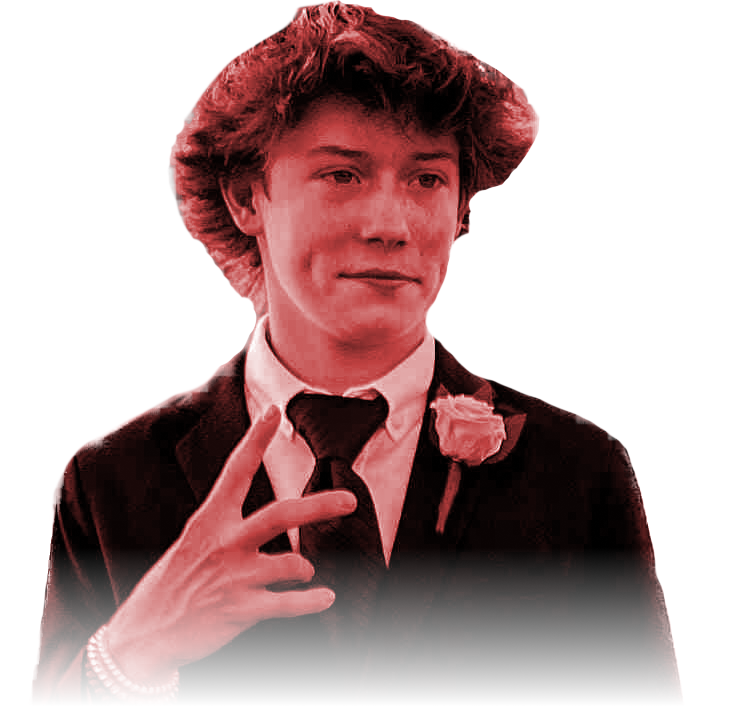
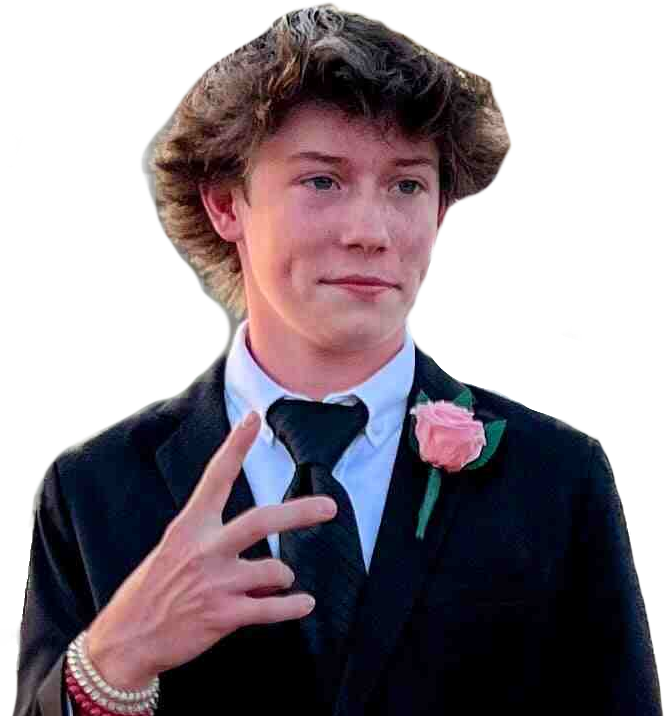
final hero

diff --git a/css/home.css b/css/home.css
@@ -72,75 +72,10 @@
 
 }
 
-/* Hero Section */
-
-.hero {
-    height: 100vh;
-    width: 100%;
-    display: flex;
-    flex-direction: column;
-    align-items: center;
-    position: relative;
-    z-index: 0;
-    overflow-y: hidden;
-    overflow-x: hidden;
-}
-
-.hero img {
-    position: absolute;
-    top: 0;
-    transform: translate(-50%, -14%);
-    left: 50%;
-    width: 100%;
-    min-width: 1000px;
-    overflow-x: hidden;
-}
-
-.hero img:nth-child(1) {
-    filter: saturate(0);
-}
-
-.hero img:nth-child(3) {
-    z-index: 3;
-}
-
-.hero::before {
-    z-index: 1;
-    content: '';
-    height: 100%;
-    width: 100%;
-    position: absolute;
-    top: 0;
-    left: 0;
-    background: radial-gradient(transparent, rgba(0, 0, 0, 0.6));
-}
-
-.hero::after {
-    z-index: 3;
-    content: '';
-    height: 100%;
-    width: 100%;
-    position: absolute;
-    top: 0;
-    left: 0;
-    background: linear-gradient(var(--dark-color), transparent, transparent, var(--dark-color));
-}
-
-h1 {
-    margin-top: clamp(140px, 10%, 300px);
-    z-index: 2;
-    color: var(--accent-color);
-    font-size: 10vw;
-    font-weight: normal;
-    letter-spacing: 1px;
-    text-shadow: 5px 5px 5px rgba(0, 0, 0, 0.2);
-}
 
 
 
-
-/* Test Hero 2 */
-
+/* Hero 2 Section*/
 
 .hero-2 {
     height: 100vh;
@@ -163,9 +98,10 @@ h1 {
     width: 50%;
     height: auto;
     z-index: 1;
+    filter: saturate(1) brightness(0.8);
 }
 
-.hero-2::after {
+.hero-2::before {
     content: '';
     height: 100%;
     width: 100%;
@@ -177,6 +113,20 @@ h1 {
             rgba(0, 0, 0, 0.2),
             var(--dark-color));
     z-index: 0;
+}
+
+.hero-2::after {
+    content: '';
+    height: 100%;
+    width: 100%;
+    position: absolute;
+    top: 0;
+    left: 0;
+    background: linear-gradient(transparent,
+            rgba(0, 0, 0, 0),
+            rgba(0, 0, 0, 0),
+            var(--dark-color));
+    z-index: 2;
 }
 
 .hero-text {

diff --git a/index.html b/index.html
@@ -42,23 +42,17 @@
             </div>
         </section>
 
-        <section class="hero fade-in-on-scroll">
-            <img src="imgs/hunter-1.webp" alt="image of Hunter Peeples">
-            <h1>HuntYoMan</h1>
-            <img src="imgs/hunter-1-foreground.webp" alt="iamge of Hunter Peeples">
-        </section>
-
         <section class="hero-2" id="hero-2">
-            <img class="fade-in-on-scroll" src="imgs/hunter-1-foreground-2.webp" alt="iamge of Hunter Peeples">
+            <img class="fade-in-on-scroll" src="imgs/hunter-1-foreground-2.webp" alt="image of Hunter Peeples">
 
 
             <div class="hero-text">
                 <h1 class="fade-in-on-scroll">HuntYoMan</h1>
+
                 <div class="fade-in-on-scroll">
                     <h3>Musician</h3>
                     <h3>Songwriter</h3>
                     <h3>Believer</h3>
-
                 </div>
             </div>
         </section>
@@ -100,7 +94,6 @@
         </section>
 
         <section class="embedded-spotify">
-
             <div class="iframe-wrapper">
                 <iframe style="border-radius:12px"
                     src="https://open.spotify.com/embed/artist/1cdUa57VKRe88ODZxlO8WW?utm_source=generator&theme=0"
@@ -108,7 +101,6 @@
                     allow="autoplay; clipboard-write; encrypted-media; fullscreen; picture-in-picture"
                     loading="lazy"></iframe>
             </div>
-
         </section>
 
         <section id="about-section" class="fade-in-on-scroll about-section">

diff --git a/scripts/script.js b/scripts/script.js
@@ -135,7 +135,7 @@ window.addEventListener("scroll", function () {
 
   const parallaxElements = [
     { selector: ".featured-music", offset: 400 },
-    { selector: ".links", offset: 670 },
+    { selector: ".links", offset: 1000 },
     { selector: ".newsletter-section", offset: 1250 },
     { selector: "#release-countdown", offset: -200 },
     { selector: "#about-section", offset: 1000 },
